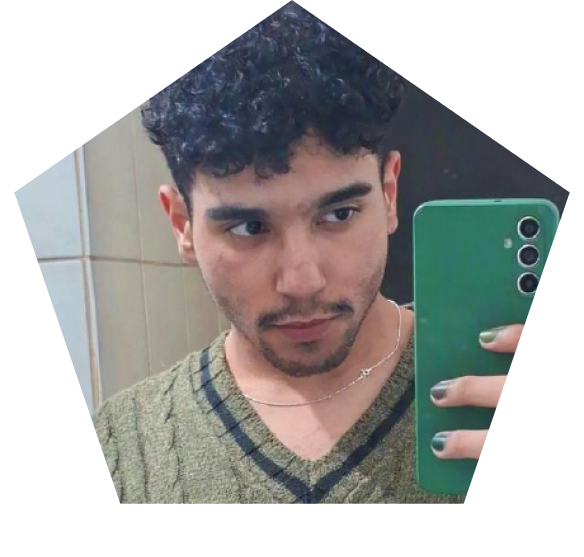
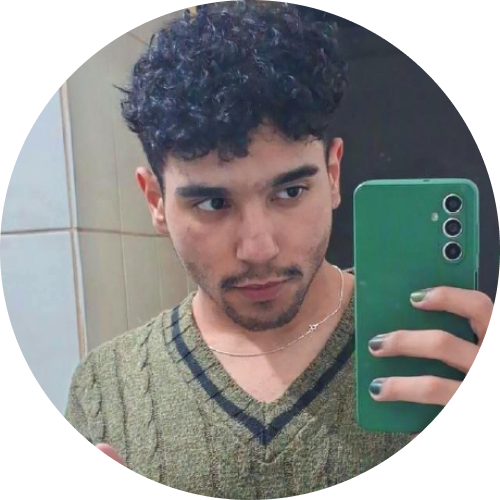
feat: started doing the portfolio section (searching bento grids)

diff --git a/src/styledComponents.jsx b/src/styledComponents.jsx
@@ -9,6 +9,7 @@ export const Body = styled.body`
     font-family: monospace;
     color: #263138;
     background-color: #FBFBFB;
+    margin: 0;
    
 `
 
@@ -29,13 +30,25 @@ export const Container = styled.div`
 
 export const SubContainer = styled(Container)`
     flex-direction: column;
+    width: 310px;
+
+`
+
+export const SkillContainer = styled(Container)`
+    gap: 4vw;
+    padding: 2vh;
+    
 `
 
 export const Title = styled(Container)`
-    font-size: 2.5em;
+    font-size: 3em;
     gap: 1vw;
     font-weight: bold;
-    
+`
+
+export const SkillTitle = styled(Title)`
+    font-size: 2.5em;
+    padding-bottom: 1vh;
 `
 
 export const Nav = styled(Container)`
@@ -57,6 +70,7 @@ export const NavItem = styled.a`
 export const Section = styled.section`
     display: flex;
     width: 100%;
+    height: 100vh;
 `
 
 export const SectionColumn = styled(Section)`
@@ -74,7 +88,7 @@ export const SectionTitle = styled(Title)`
 
 export const Button = styled.button`
     border: none;
-    background-color: #263138;
+    background-color: #304E2E;
     color: #FBFBFB;
     padding: 2vh 3vw;
     font-size: 1.3em;
@@ -83,7 +97,7 @@ export const Button = styled.button`
 
     &:hover{
         transform: scale(1.01);
-        background-color: #263138ea;
+        background-color: #385a36ea;
         transition: all .5s;
     }
 `
@@ -93,11 +107,48 @@ export const Redes = styled(Container)`
     gap: 2vw;
     cursor: pointer;
     height: 5vh;
-
 `
 
-export const Image = styled.img`
+export const HeroImage = styled.img`
     height: 700px;
     width:  700px;
-    margin-inline-start: -5vw
+    margin-inline-start: -5vw;
+    align-self: center;
 `
+
+export const AboutSection = styled(Section)`
+    align-items: center;
+    flex-direction: column;
+    gap: 2vh;
+
+`
+export const AboutImage = styled.img`
+    width:  300px;
+    height: 300px;
+`
+
+export const Divider = styled.div`
+    width: 100%;
+    border: 1px solid #e9e9e9;
+    margin: 5vh 0 ;
+`
+
+export const SubTitle = styled.h2`
+    font-weight: 500;
+    text-align: center;
+    gap: 1vh;
+    /* font-weight */
+`
+
+export const SkillFilled = styled.div`
+    width:  20px;
+    height: 40px;
+    background-color: #304E2E;
+    margin: .5vh;
+`
+
+export const SkillUnfilled = styled(SkillFilled)`
+    background-color: #FFF;
+    border: 1px solid #304E2E
+`
+

diff --git a/src/App.jsx b/src/App.jsx
@@ -2,7 +2,9 @@ import './App.css'
 import * as S from './styledComponents'
 import * as I from "iconoir-react"
 import hero from '../public/hero.png'
+import eu from '../public/eu.png'
 import { useState } from 'react'
+import Skill from './components/skill'
 
 
 function App() {
@@ -34,19 +36,48 @@ function App() {
             <S.NavItem href="https://instagram.com/arthurzop" target="_blank">
               <I.Instagram />
             </S.NavItem>
-            <S.NavItem href="#">
+            <S.NavItem href="https://www.linkedin.com/in/artur-medeiros-7169b8266/">
               <I.Linkedin />
             </S.NavItem>
           </S.Redes>
         </S.SectionColumn>
-        <S.SectionColumn>
-          <S.Image src={hero}></S.Image>
-        </S.SectionColumn>
+        <S.HeroImage src={hero}></S.HeroImage>
       </S.Section>
+      <S.Divider></S.Divider>
+      <S.AboutSection>
+        <S.AboutImage src={eu}></S.AboutImage>
+        <S.Title style={{borderBottom: '3px solid #2D755F'}}>artur medeiros :P</S.Title>
+        <S.SubTitle>i'm 20 years old, from são paulo - brazil. <br />
+          currently in the third semmester of system analysis at senai suiço-brasileira <br />
+          focused in front-end, web development and ui/ux design.
+        </S.SubTitle>
+
+        <S.Title>hard skills:</S.Title>
+        <S.SkillContainer>
+          <Skill
+            titulo="html"
+            skills={[2, 3, 1, 1, 1]}
+            unSkill={[]} />
+          <Skill titulo="css" skills={[2, 3, 1, 1]} unSkill={[1]} />
+          <Skill titulo="styled components" skills={[2]} unSkill={[1, 2, 3, 4]} />
+          <Skill titulo="git" skills={[2, 3]} unSkill={[3, 3, 3]} />
+        </S.SkillContainer>
+        <S.SkillContainer>
+          <Skill titulo="react js" skills={[2, 3, 1, 2]} unSkill={[2]} />
+          <Skill titulo="javascript" skills={[2, 3, 1, 1, 1]} unSkill={[]} />
+          <Skill titulo="figma" skills={[2, 3, 1, 1]} unSkill={[2]} />
+          <Skill titulo="react native" skills={[2, 3,]} unSkill={[2, 3, 4]} />
+        </S.SkillContainer>
+      </S.AboutSection>
+      <S.Divider/>
       <S.Section>
+        <S.Title>my portfolio</S.Title>
+        <S.SubTitle>these are some of past projects i've done</S.SubTitle>
+        
       </S.Section>
     </S.Body>
   )
 }
 
 export default App
+

diff --git a/src/components/skill.jsx b/src/components/skill.jsx
@@ -1,0 +1,30 @@
+import * as S from '../styledComponents'
+
+export default function Skill({ titulo, skills, unSkill }) {
+
+    // if (skills === true){
+    //     let number = []
+    // }
+
+    // const offnumber = [unSkill]
+
+    return (
+        <>
+            <S.SubContainer>
+                <S.SkillTitle>{titulo}</S.SkillTitle>
+                <S.Container>
+                    {skills.map(key => {
+                        return (
+                            <S.SkillFilled key={key} />
+                        )
+                    })}
+                    {unSkill.map(key => {
+                        return (
+                            <S.SkillUnfilled key={key} />
+                        )
+                    })}
+                </S.Container>
+            </S.SubContainer>
+        </>
+    )
+}

diff --git a/src/App.css b/src/App.css
@@ -1,0 +1,6 @@
+html{
+    margin: 0;
+    padding: 0;
+    overflow-x: hidden;
+
+}
